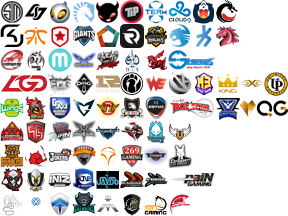
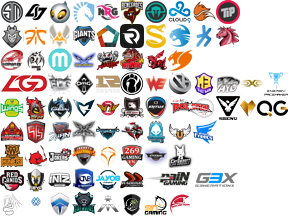
Updates NA LCS, EU LCS, LCK, LPL, and LMS flair

diff --git a/flair.less b/flair.less
@@ -221,63 +221,63 @@
 }
 
 // NA LCS
-.make-team-flair("00", 0, 0);	// TSM
-.make-team-flair("01", 1, 0);	// CLG
-.make-team-flair("02", 2, 0);	// Dignitas
-.make-team-flair("03", 3, 0);	// Team Liquid
-.make-team-flair("04", 4, 0);	// Enemy eSports
-.make-team-flair("05", 5, 0);	// Team Impulse
-.make-team-flair("06", 6, 0);	// Team 8
-.make-team-flair("07", 7, 0);	// Cloud 9
-.make-team-flair("08", 8, 0);	// Gravity
-.make-team-flair("09", 9, 0);	// Dragon Knights
+.make-team-flair("00",	0, 0);	// TSM
+.make-team-flair("01",	1, 0);	// CLG
+.make-team-flair("02",	2, 0);	// Dignitas
+.make-team-flair("03",	3, 0);	// Team Liquid
+.make-team-flair("nrg",	4, 0);	// NRG Esports
+.make-team-flair("rng",	5, 0);	// Renegades
+.make-team-flair("imm",	6, 0);	// Immortals
+.make-team-flair("07",	7, 0);	// Cloud 9
+.make-team-flair("ef",	8, 0);	// Echo Fox
+.make-team-flair("05",	9, 0);	// Team Impulse
 
 // EU LCS
-.make-team-flair("10", 0, 1);	// SK Gaming
-.make-team-flair("11", 1, 1);	// Fnatic
-.make-team-flair("12", 2, 1);	// Gambit Gaming
-.make-team-flair("13", 3, 1);	// GIANTS! Gaming
-.make-team-flair("14", 4, 1);	// Elements
-.make-team-flair("15", 5, 1);	// Origen Gaming
-.make-team-flair("16", 6, 1);	// Copenhagen Wolves
-.make-team-flair("17", 7, 1);	// ROCCAT
-.make-team-flair("18", 8, 1);	// H2K Gaming
-.make-team-flair("19", 9, 1);	// Unicorns of Love
+.make-team-flair("g2",	0, 1);	// G2 Esports
+.make-team-flair("11",	1, 1);	// Fnatic
+.make-team-flair("vit",	2, 1);	// Team Vitality
+.make-team-flair("13",	3, 1);	// Giants
+.make-team-flair("14",	4, 1);	// Elements
+.make-team-flair("15",	5, 1);	// Origen Gaming
+.make-team-flair("spl",	6, 1);	// Splyce
+.make-team-flair("17",	7, 1);	// ROCCAT
+.make-team-flair("18",	8, 1);	// H2K Gaming
+.make-team-flair("19",	9, 1);	// Unicorns of Love
 
 // LMS
-.make-team-flair("20", 0, 2);	// HK eSports
-.make-team-flair("21", 1, 2);	// Midnight Sun
-.make-team-flair("22", 2, 2);	// Machi Crew
-.make-team-flair("23", 3, 2);	// Yoe Flash Wolves
-.make-team-flair("24", 4, 2);	// Taipei Assassins
-.make-team-flair("25", 5, 2);	// Assassin Snipers
-.make-team-flair("26", 6, 2);	// AHQ eSports Club
-.make-team-flair("27", 7, 2, 2);	// Snipers
+.make-team-flair("20",	0, 2);	// Hong Kong eSports
+.make-team-flair("21",	1, 2);	// Midnight Sun
+.make-team-flair("22",	2, 2);	// Machi17 (might need new icon)
+.make-team-flair("23",	3, 2);	// Flash Wolves
+.make-team-flair("24",	4, 2);	// Taipei Assassins
+.make-team-flair("hwv",	5, 2);	// HeatWave
+.make-team-flair("26",	6, 2);	// AHQ eSports Club
+.make-team-flair("cou",	7, 2);	// Cougar eSports
 
 // LPL
-.make-team-flair("30", 0, 3, 2);	// LGD Gaming
-.make-team-flair("32", 2, 3);	// Edward Gaming
-.make-team-flair("33", 3, 3);	// OMG
-.make-team-flair("34", 4, 3);	// Royal Never Give Up
-.make-team-flair("35", 5, 3);	// Invictus Gaming
-.make-team-flair("37", 6, 3);	// Team WE
-.make-team-flair("40", 7, 3);	// Vici Gaming
-.make-team-flair("41", 8, 3);	// M3 Gaming
-.make-team-flair("42", 9, 3);	// Team King
-.make-team-flair("43", 10, 3);	// Snake eSports
-.make-team-flair("44", 11, 3);	// Unlimited Potential
-.make-team-flair("45", 10, 4, 2);	// Quao Gu
+.make-team-flair("30",	0, 3, 2);	// LGD Gaming
+.make-team-flair("32",	2, 3);	// Edward Gaming
+.make-team-flair("33",	3, 3);	// OMG
+.make-team-flair("34",	4, 3);	// Royal Never Give Up
+.make-team-flair("35",	5, 3);	// Invictus Gaming
+.make-team-flair("37",	6, 3);	// Team WE
+.make-team-flair("40",	7, 3);	// Vici Gaming
+.make-team-flair("41",	8, 3);	// M3 Gaming
+.make-team-flair("hyg",	9, 3);	// Hyper Youth Gaming
+.make-team-flair("43",	10, 3);	// Snake eSports
+.make-team-flair("epm",	11, 3);	// Energy Pace Maker
+.make-team-flair("45",	10, 4, 2);	// Quao Gu Reapers
 
 // LCK
-.make-team-flair("70", 0, 4);	// Jin Air Green Wings
-.make-team-flair("71", 1, 4);	// Najin e-mFire
-.make-team-flair("72", 2, 4);	// Incredible Miracle
-.make-team-flair("73", 3, 4);	// Samsung Galaxy
-.make-team-flair("74", 4, 4);	// SKtelecom T1
-.make-team-flair("75", 5, 4);	// GE Tigers
-.make-team-flair("76", 6, 4);	// CJ Entus
-.make-team-flair("77", 7, 4, 2);	// KT Rolster
-.make-team-flair("48", 9, 4);	// SBENU Sonicboom
+.make-team-flair("70",	0, 4);	// Jin Air Green Wings
+.make-team-flair("71",	1, 4);	// e-mFire
+.make-team-flair("lzg",	2, 4);	// Longzhu Gaming
+.make-team-flair("73",	3, 4);	// Samsung Galaxy
+.make-team-flair("74",	4, 4);	// SKtelecom T1
+.make-team-flair("75",	5, 4);	// ROX Tigers
+.make-team-flair("76",	6, 4);	// CJ Entus
+.make-team-flair("77",	7, 4, 2);	// KT Rolster
+.make-team-flair("48",	9, 4);	// SBENU SONICBOOM
 
 // GPL
 .make-team-flair("50", 0, 5);	// Bangkok Titans
